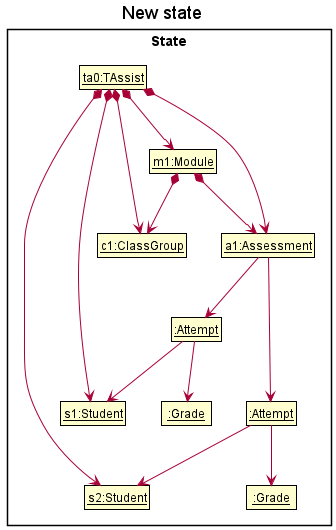
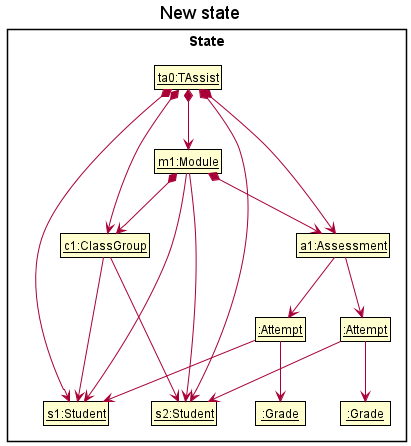
Update diagrams and add assumption to grade assessment feature

diff --git a/docs/DeveloperGuide.md b/docs/DeveloperGuide.md
@@ -281,11 +281,15 @@ The `Assessment` entity will be tied to a specific module. Hence, when a `TaModu
 
 Given below is an example usage scenario of how the grading mechanism behaves at each step.
 
+<div markdown="span" class="alert alert-info">:information_source: **Assumption:** Valid `Student`, `Module`, `ClassGroup` and `Assessment` objects are created beforehand. `Student` objects are enrolled to the `ClassGroup` as well.
+
+</div>
+
 Step 1. The user launches the application. The `TAssist` is already populated with data.
 
 ![GradeState0](images/GradeState0.png)
 
-Step 2. The user executes `grade a\1 s\1,2 g\1` command to grade the 1st assessment (`a1`) for the 1st and 2nd students (`s1` and `s2` respectively) with grade 1 in the `TAssist`. the `grade` command would call the `GradeCommandParser#parse()`, which parses the input and return the assessment to grade, which students to grade and what is the grade the students will get for the assessment.
+Step 2. The user executes `grade a\1 s\1,2 g\1` command to grade the 1st assessment (`a1`) for the 1st and 2nd students enrolled in the module (`s1` and `s2` respectively) with grade 1 in the `TAssist`. the `grade` command would call the `GradeCommandParser#parse()`, which parses the input and return the assessment to grade, which students to grade and what is the grade the students will get for the assessment.
 
 ![GradeState1](images/GradeState1.png)
 
